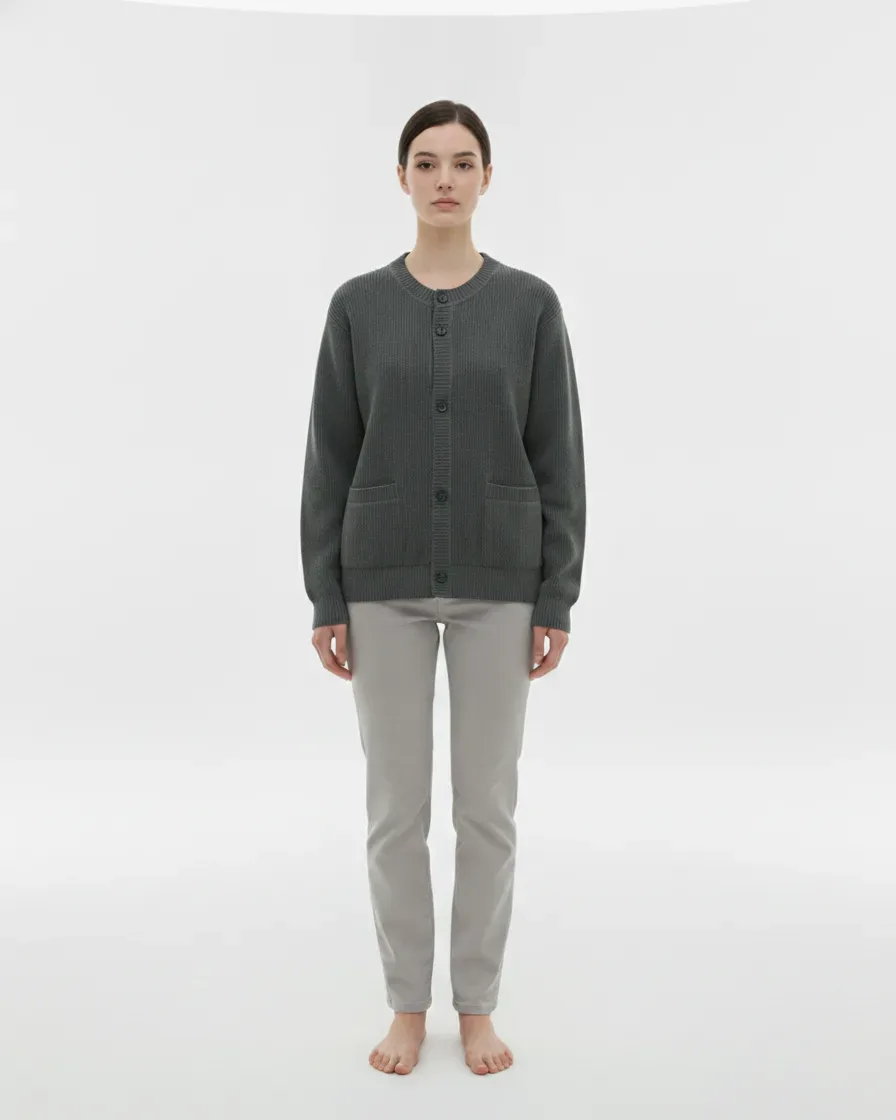
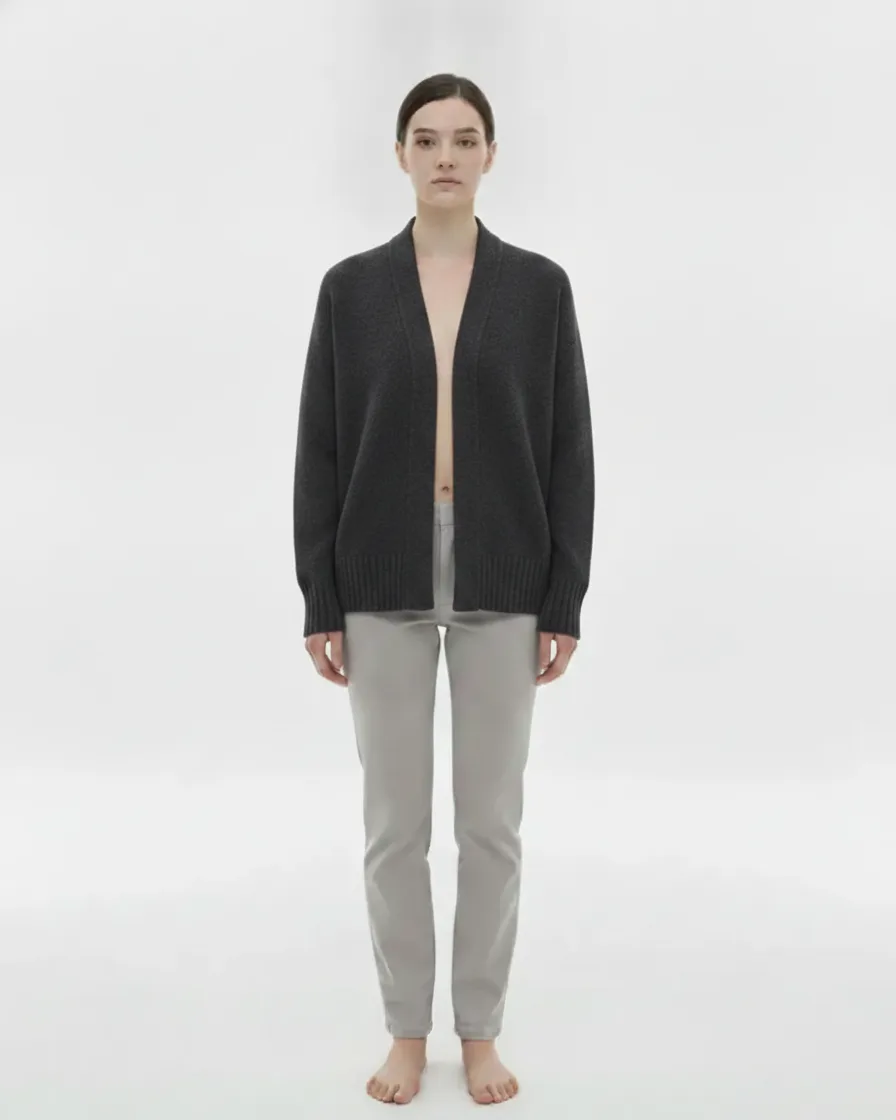
fix(design): 모델 정렬 재개선 + 배경 대폭 강화
- 모델: before 기준 강한 몸보존 프롬프트로 after 재생성(어깨폭·팔·몸통 정렬)
- 배경: 그라디언트 강도↑(0.06→0.16~0.22) + 흐르는 blob 3개(느린 drift 애니)
- 이전 배경이 너무 옅어 안 보였던 문제 해결. reduced-motion 존중

diff --git a/src/styles/global.css b/src/styles/global.css
@@ -15,15 +15,37 @@ body {
   font-size: var(--text-body);
   line-height: 1.6;
   -webkit-font-smoothing: antialiased;
-  /* 전역 피팅룸 분위기: 은은한 다지점 그라디언트 메시(스크롤 내내 흐름) */
+  /* 전역 피팅룸 분위기: 뚜렷한 다지점 그라디언트 메시 */
   background:
-    radial-gradient(40% 30% at 85% 4%, rgba(255, 107, 74, 0.08), transparent 60%),
-    radial-gradient(35% 28% at 8% 32%, rgba(255, 148, 120, 0.07), transparent 62%),
-    radial-gradient(45% 35% at 92% 62%, rgba(212, 175, 55, 0.06), transparent 60%),
-    radial-gradient(40% 30% at 15% 88%, rgba(255, 107, 74, 0.06), transparent 60%),
-    linear-gradient(170deg, #FFF7F2 0%, var(--color-background) 40%, #FBF6F0 100%);
+    radial-gradient(50% 40% at 88% 2%, rgba(255, 107, 74, 0.22), transparent 58%),
+    radial-gradient(45% 38% at 6% 28%, rgba(255, 148, 120, 0.18), transparent 60%),
+    radial-gradient(50% 42% at 94% 58%, rgba(212, 175, 55, 0.16), transparent 58%),
+    radial-gradient(48% 40% at 12% 86%, rgba(255, 107, 74, 0.16), transparent 60%),
+    linear-gradient(165deg, #FFF0E9 0%, #FDF3EC 42%, #FBF6F0 100%);
   background-attachment: fixed;
 }
+/* 부드럽게 흐르는 색 blob — 재미 요소(느린 이동). */
+body > .bg-blobs {
+  position: fixed;
+  inset: 0;
+  z-index: 0;
+  pointer-events: none;
+  overflow: hidden;
+}
+.bg-blob {
+  position: absolute;
+  border-radius: 50%;
+  filter: blur(60px);
+  opacity: 0.5;
+  will-change: transform;
+}
+.bg-blob--1 { width: 44vw; height: 44vw; top: -8%; right: -6%; background: rgba(255, 107, 74, 0.28); animation: blobDrift1 22s ease-in-out infinite; }
+.bg-blob--2 { width: 40vw; height: 40vw; bottom: -10%; left: -8%; background: rgba(255, 178, 122, 0.26); animation: blobDrift2 26s ease-in-out infinite; }
+.bg-blob--3 { width: 34vw; height: 34vw; top: 40%; left: 55%; background: rgba(212, 175, 55, 0.18); animation: blobDrift3 30s ease-in-out infinite; }
+@keyframes blobDrift1 { 0%,100% { transform: translate(0,0) scale(1); } 50% { transform: translate(-6vw, 5vh) scale(1.1); } }
+@keyframes blobDrift2 { 0%,100% { transform: translate(0,0) scale(1); } 50% { transform: translate(5vw, -4vh) scale(1.08); } }
+@keyframes blobDrift3 { 0%,100% { transform: translate(0,0) scale(1); } 50% { transform: translate(-4vw, -6vh) scale(1.12); } }
+@media (prefers-reduced-motion: reduce) { .bg-blob { animation: none; } }
 /* 전역 grain — fixed 레이어. 아주 옅게 flat 탈피. */
 body::before {
   content: '';

diff --git a/src/App.tsx b/src/App.tsx
@@ -27,6 +27,12 @@ export default function App() {
 
   return (
     <>
+      {/* 전역 배경 blob — 느리게 흐르는 색 얼룩(재미·깊이). 콘텐츠 뒤. */}
+      <div className="bg-blobs" aria-hidden>
+        <span className="bg-blob bg-blob--1" />
+        <span className="bg-blob bg-blob--2" />
+        <span className="bg-blob bg-blob--3" />
+      </div>
       <a className="skip-link" href="#main">본문 바로가기</a>
       <Nav />
       <main id="main">
